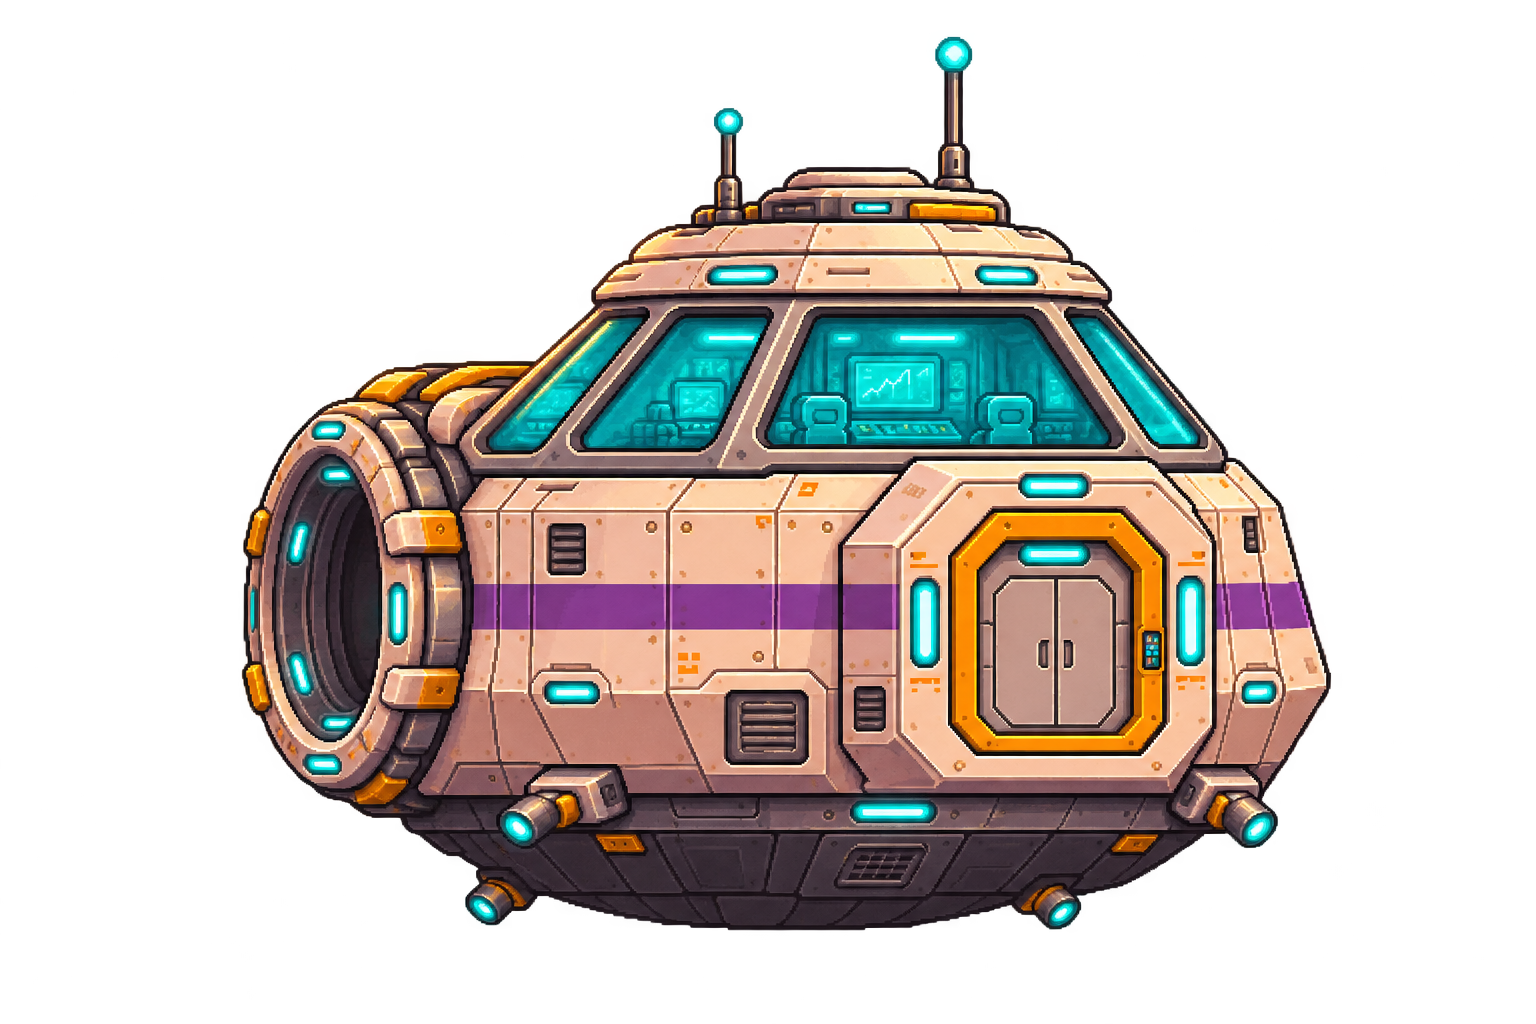
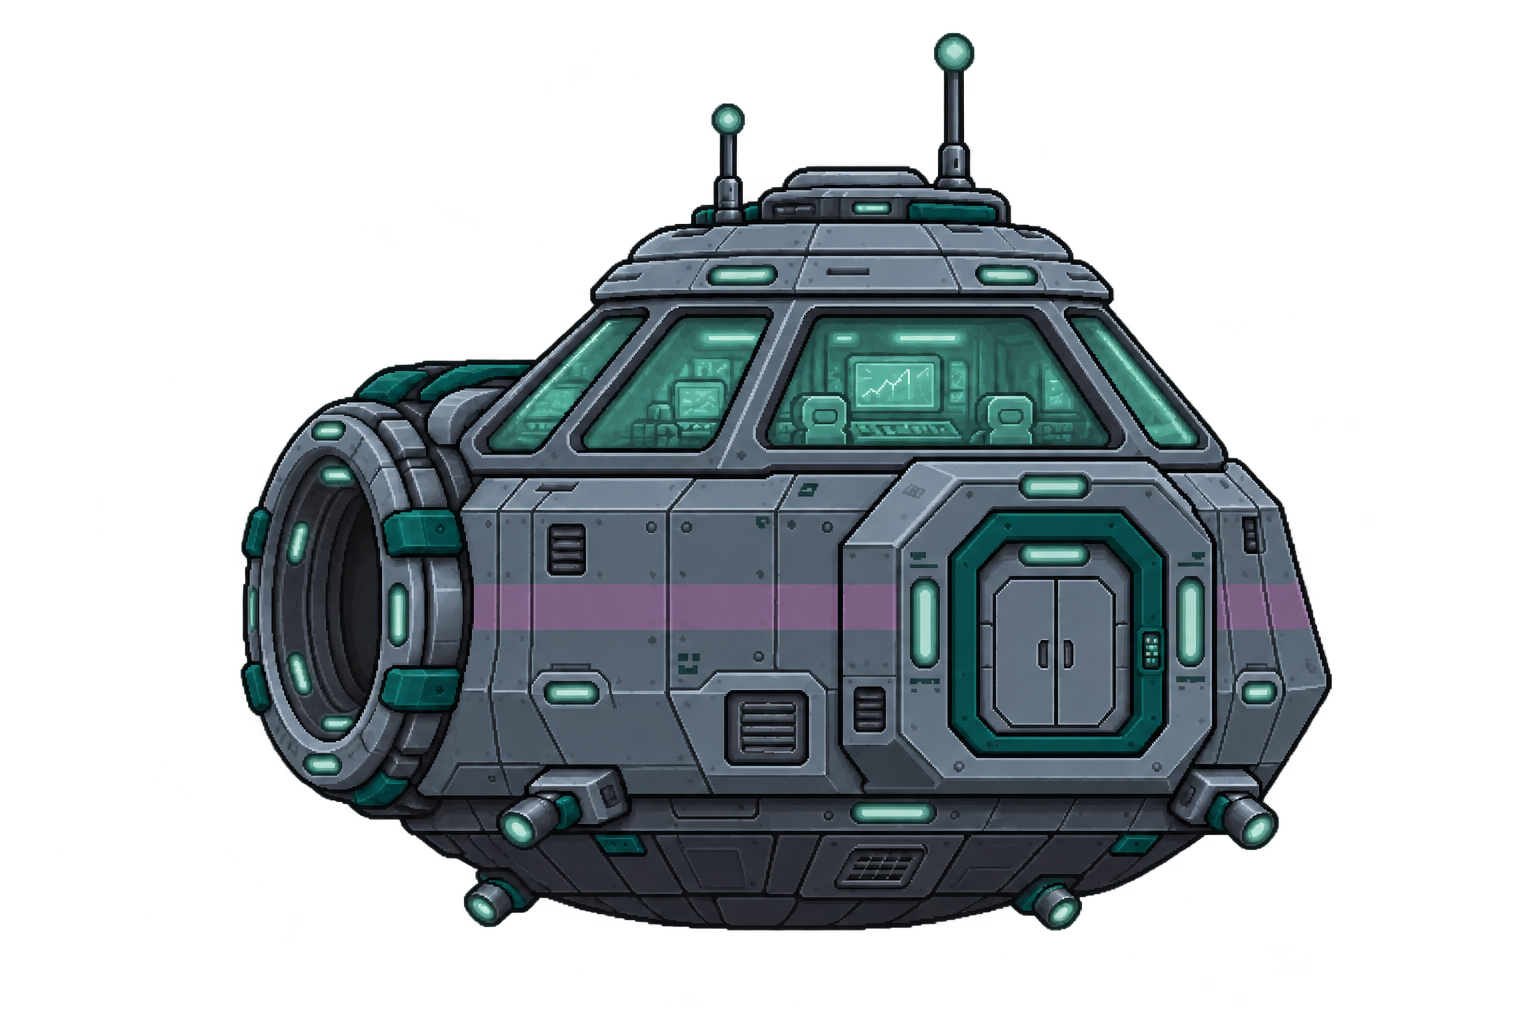
Renueva la paleta de la nave y la interfaz

diff --git a/web/umbra.html b/web/umbra.html
@@ -3,39 +3,39 @@
 <head>
   <meta charset="utf-8">
   <meta name="viewport" content="width=device-width, initial-scale=1">
-  <meta name="theme-color" content="#241b2c">
+  <meta name="theme-color" content="#17222d">
   <title>Horizonte Rojo · Cinco días en Marte</title>
   <style>
     * { box-sizing: border-box; }
-    :root { color-scheme: dark; font: 16px "Trebuchet MS", sans-serif; color: #fff6e8; background: #241b2c; }
+    :root { color-scheme: dark; font: 16px "Trebuchet MS", sans-serif; color: #e4ecef; background: #17222d; }
     body { margin: 0; }
     [hidden] { display: none !important; }
     #stage { position: relative; min-height: 100dvh; display: grid; place-items: center; overflow: hidden; }
-    #stage::before { content: ""; position: absolute; inset: -24px; background: linear-gradient(#241b2cb8, #241b2ce0), url("portada.png") center / cover; filter: blur(18px); pointer-events: none; }
+    #stage::before { content: ""; position: absolute; inset: -24px; background: linear-gradient(#17222db8, #17222de0), url("portada.png") center / cover; filter: blur(18px); pointer-events: none; }
     canvas { position: relative; display: block; width: min(100vw, 177.778dvh); height: min(100dvh, 56.25vw); outline: 0; }
     #launch {
       position: absolute; inset: 0; display: grid; align-items: end;
-      background: linear-gradient(90deg, #211525f5, #342237c2 32%, transparent 77%),
-        linear-gradient(0deg, #211525, transparent 51%),
-        url("portada.png") center / cover, #543039;
+      background: linear-gradient(90deg, #17212df5, #233644d9 32%, transparent 77%),
+        linear-gradient(0deg, #17212d, transparent 51%),
+        linear-gradient(#34475444, #34475444), url("portada.png") center / cover, #344754;
     }
     .expedicion { width: min(45rem, 95%); padding: clamp(1.25rem, 6vw, 6rem); padding-right: 0; }
-    .destino { width: fit-content; padding: .48rem .85rem; color: #241d2a; background: #ffbb84; font-weight: 700; border-radius: .25rem .25rem 1rem .25rem; }
+    .destino { width: fit-content; padding: .48rem .85rem; color: #182832; background: #93b6b2; font-weight: 700; border-radius: .25rem .25rem 1rem .25rem; }
     h1 { margin: .14em 0 0; font: 900 clamp(3.5rem, 10.5vw, 9.1rem)/.83 Georgia, serif; letter-spacing: -.065em; }
-    h2 { margin: .6rem 0 1rem; font: 400 clamp(1.32rem, 3.2vw, 2.4rem)/1.1 Georgia, serif; color: #ffcdb0; }
+    h2 { margin: .6rem 0 1rem; font: 400 clamp(1.32rem, 3.2vw, 2.4rem)/1.1 Georgia, serif; color: #bdc4df; }
     p { margin: 0; }
     .historia { line-height: 1.55; font-size: clamp(1rem, 1.8vw, 1.2rem); max-width: 32ch; }
     button { font: inherit; cursor: pointer; }
-    button:focus-visible { outline: 3px solid #fff6e8; outline-offset: 4px; }
+    button:focus-visible { outline: 3px solid #e4ecef; outline-offset: 4px; }
     #play { margin: 1.3rem 0 .65rem; min-height: 50px; padding: .75rem 1.65rem; color: #171320; background: #a9ecdf; border: 0; border-radius: .4rem; font-weight: bold; }
     #play:hover { background: #e1fff5; }
     #play:disabled { cursor: wait; opacity: .8; }
     .finales { display: flex; flex-wrap: wrap; gap: .65rem 1rem; margin: 0 0 .8rem; padding: 0; border: 0; }
-    .finales legend { padding: 0; margin-bottom: .45rem; color: #f1ded2; font-size: .85rem; }
-    .finales button { padding: .45rem .7rem; border: 1px solid #ae988b; border-radius: .35rem; background: #231b27; color: #fff1db; font: inherit; font-size: .84rem; }
-    #status { min-height: 2.4em; color: #e8d6d1; font-size: .86rem; line-height: 1.35; }
+    .finales legend { padding: 0; margin-bottom: .45rem; color: #ccd5df; font-size: .85rem; }
+    .finales button { padding: .45rem .7rem; border: 1px solid #738895; border-radius: .35rem; background: #1c2c39; color: #e4ecef; font: inherit; font-size: .84rem; }
+    #status { min-height: 2.4em; color: #cfdae1; font-size: .86rem; line-height: 1.35; }
     #progreso { width: min(100%, 16rem); accent-color: #a9ecdf; display: block; }
-    #fullscreen { position: absolute; right: .75rem; bottom: .6rem; background: #211b2adb; color: #fff6e8; border: 1px solid #c8bcc7; border-radius: .35rem; min-width: 40px; min-height: 36px; }
+    #fullscreen { position: absolute; right: .75rem; bottom: .6rem; background: #182632db; color: #e4ecef; border: 1px solid #82969e; border-radius: .35rem; min-width: 40px; min-height: 36px; }
     @media (max-width: 650px) {
       #launch { background-position: 62% center; }
       .expedicion { padding-bottom: 1.2rem; }

diff --git a/docs/FINALES.md b/docs/FINALES.md
@@ -36,3 +36,5 @@ A single small unobstructed game sprite of a gold space exploration medal hangin
 ImageGen integrado generó la presentadora y el televisor pixel art. Godot compone imágenes del hangar dentro del monitor del estudio.
 
 > A complete 16:9 story cutscene for Horizonte Rojo, a 2D pixel art Mars game. View straight-on at a slightly retro television screen, almost full frame, simple dark burgundy television bezel with rounded screen corners hugging the outer 4 percent edges. Inside the television: restrained, warmly lit terrestrial evening news set, medium close-up of a serious empathetic adult female news presenter with a mid-length dark brown bob and plum blazer seated on the LEFT half (her face centered at 26 percent width, 38 percent height), slight turn toward camera, hands visible resting on the desk. On the RIGHT half place a large blank dark charcoal inset broadcast monitor (x=55–91% and y=22–59%) for the game to insert hangar footage. Keep inside the screen near lower 76–88 percent height dark and quiet for two short lines of closed captioning. Visual language of a polished 1990s game cutscene, deliberate pixel clusters, crisp edge detail, shaded warm cream and terracotta contrasted with restrained blue television lighting. A respectful evening broadcast, no smiles, no sensationalism. No words, no numbers, no captions, no logos, no watermark. This is a 2D pixel art illustration, not a photo or vector graphic.
+
+La cápsula del hangar también usa el acabado de la nave del viaje. El noticiero toma la misma composición del hangar.

diff --git a/docs/ARTE-VIAJE.md b/docs/ARTE-VIAJE.md
@@ -45,3 +45,11 @@ Esta secuencia representa meses de viaje de forma ilustrativa; no es una simulac
 ## Regreso a la Tierra
 
 Solo viaja el módulo de descenso. La etapa de transferencia y su estela se ocultan durante todo el regreso.
+
+## Acabado de la nave
+
+ImageGen integrado revisó la etapa de transferencia, la cápsula orbital, la cápsula con patas desplegadas y la cápsula que se ve en el hangar y en el noticiero. Las placas usan azul pizarra, las bandas violeta apagado y las luces verde petróleo. Se conservan los aros de acople, la escalera y las patas. La portada usa pizarra, verde suave y lavanda sobre el panorama de Marte.
+
+Prompt de paleta
+
+> Use a dark desaturated slate-blue hull (midtones #526575, highlights #82929e), charcoal shadow structure, muted dusty violet stripe (#736783), restrained sea-glass teal lenses and fittings (#538b87). Replace all orange/yellow hardware accents with dark petrol teal and all cream/white plating with painted slate-blue titanium. Preserve the readable contrast and each pixel-art edge. No orange paint or white hull. Preserve exact object bounding box, camera, silhouette, crop, transparent canvas, each connector, leg, and proportion.

diff --git a/CHANGELOG.md b/CHANGELOG.md
@@ -1,5 +1,10 @@
 # Cambios
 
+## 2026-11-15 | Paleta de la nave y la interfaz
+
+- La etapa de transferencia y la cápsula usan azul pizarra, verde petróleo y violeta apagado desde el acople hasta el hangar terrestre.
+- La portada y el selector de soles usan acentos fríos para equilibrar el paisaje de Marte.
+
 ## 2026-11-15 | Campaña de cinco soles
 
 - Los soles 1–5 usan la misma partida. El daño del Sol 2 afecta los soles 3 y 5, y el blindaje del Sol 4 modifica el desenlace.
